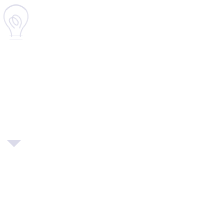
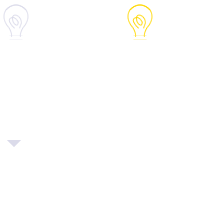
web
微信支付弹窗    随游页面导航

Changed region(s): [[0.63, 0.0, 0.78, 0.21]]

diff --git a/css/cs.css b/css/cs.css
@@ -317,7 +317,9 @@ transition:all 0.4s ease-in-out;
 .xit-sz ol{ width:240px; line-height:30px; height:30px; border-bottom:1px solid #999;}
 .xit-sz ol li{ float:left; height:30px; text-align:center;}
 .xit-sz ol li.sx{ background:url(../images/ico3.png) no-repeat 6px 6px; padding-left:5px; width:114px; border-right:1px solid #999; }
+.xit-sz ol li.sx.active{ background-position:-249px 6px; color:#ffeb81 }
 .xit-sz ol li.xtxx{background:url(../images/ico3.png) no-repeat 4px -34px; padding-left:5px; width:115px;}
+.xit-sz ol li.xtxx.active{ background-position:-256px -34px;}
 .xit-sz ul{width:240px; height:auto; }
 .xit-sz ul li{ height:30px; line-height:30px; margin:5px 0px;}
 .xit-sz ul li:hover{color:#ffeb81;}
@@ -329,11 +331,16 @@ transition:all 0.4s ease-in-out;
 .my-suiuu ul{width:118px; height:140px;}
 .my-suiuu ul li{ width:88px; height:30px; line-height:30px; margin-top:4px; padding-left:30px;}
 .my-suiuu ul li.bg1{ background:url(../images/ico3.png) no-repeat 8px -72px;}
-.my-suiuu ul li.bg2{ background:url(../images/ico3.png) no-repeat 12px -108px;}
-.my-suiuu ul li.bg3{ background:url(../images/ico3.png) no-repeat 12px -142px;}
-.my-suiuu ul li.bg4{ background:url(../images/ico3.png) no-repeat 12px -182px;}
+.my-suiuu ul li.bg1:hover,.my-suiuu ul li.bg1.active{ background-position:-249px -72px;}
+.my-suiuu ul li.bg2{ background:url(../images/ico3.png) no-repeat 8px -108px;}
+.my-suiuu ul li.bg2:hover,.my-suiuu ul li.bg2.active{ background-position:-256px -108px;}
+.my-suiuu ul li.bg3{ background:url(../images/ico3.png) no-repeat 8px -146px;}
+.my-suiuu ul li.bg3:hover,.my-suiuu ul li.bg3.active{ background-position:-255px -147px;}
+.my-suiuu ul li.bg4{ background:url(../images/ico3.png) no-repeat 8px -182px;}
+.my-suiuu ul li.bg4:hover,.my-suiuu ul li.bg4.active{ background-position:-256px -182px;}
 .my-suiuu ul li a{width:88px; height:30px; display:block;}
 .my-suiuu ul li a:hover{ color:#ffeb81;}
+.my-suiuu ul li.active a{ color:#ffeb81;}
 /*------------header--end-------------*/
 
 /*------------加入随友申请-------------*/
@@ -363,7 +370,6 @@ transition:all 0.4s ease-in-out;
 .accountSet p span{ display:block;}
 .accountSet .p1{ height:36px; }
 .accountSet p .change{ font-size:18px; color:#858585; }
-
 .accountSet p .code{ width:140px; height:36px; line-height:36px; margin:0; float:left;}
 .accountSet p .code-pic{ width:140px; height:36px; float:left; }
 .accountSet p .change{height:36px; line-height:36px;  float:right;}
@@ -437,6 +443,18 @@ transition:all 0.4s ease-in-out;
 #checkOut .finish .weixin{ background-position:0 -252px;;}
 #checkOut .finish .sina{ background-position:0 -85px;;}
 #checkOut .finish .btn{ height:36px; line-height:36px; width:95px; display:block; background:#97CBFF; color:#FFEB80; font-size:16px; position:absolute; right:0; bottom:0; text-align:center;}
+
+
+.wzhifu{ display:none; width:880px; height:520px; padding:20px; background:#fff;  position:fixed; z-index:999; top:100px; left:50%; margin-left:-460px; border:1px solid #ddd;}
+.wzhifu h2{ font-size:20px; }
+.wzhifu .left{ margin-left:120px; margin-top:20px; float:left;}
+.wzhifu .left .weiP{ width:300px; height:300px; display:block; border:1px solid #ddd;}
+.wzhifu .left .weiP img{ width:300px; height:300px; display:block;}
+.wzhifu .left .tip{ width:180px; height:44px; background:#FF7674 url(../images/icon-red.fw.png) no-repeat 60px center; padding:8px 0 8px 120px; margin-top:20px;}
+.wzhifu .left .tip span{  color:#fff; font-size:16px; font-weight:bold;}
+.wzhifu .right{ float:left; margin-left:50px; _display:inline;}
+.wzhifu .back{ color:#1EABF0; font-size:16px; margin-top:40px; display:block;}
+
 /*------------结算--end-------------*/
 
 

diff --git a/suiyou.html b/suiyou.html
@@ -49,7 +49,7 @@
                     <div class="xit-sz">
                     	<span class="jiao"></span>
                         <ol>
-                            <li class="sx">私信</li>
+                            <li class="sx active">私信</li>
                             <li class="xtxx">系统消息</li>
                         </ol>
                         <ul>
@@ -68,7 +68,7 @@
                     <div class="my-suiuu">
                     	<span class="jiao"></span>
                         <ul>
-                            <li class="bg1"><a href="javascript:;">我的随游</a></li>
+                            <li class="bg1 active"><a href="javascript:;">我的随游</a></li>
                             <li class="bg2"><a href="javascript:;">我的订单</a></li>
                             <li class="bg3"><a href="zhanghao_shezhi.html">账号设置</a></li>
                             <li class="bg4"><a href="javascript:;">注销账号</a></li>

diff --git a/jiesuan_yemian.html b/jiesuan_yemian.html
@@ -164,5 +164,25 @@
 
 </div>
 <!-----footer--end---->
+<div class="mask"></div>
+<div class="wzhifu screens">
+	<h2>微支付</h2>
+    <div class="con clearfix">
+        <div class="left">
+            <p class="weiP"><img src="images/weixinCoda.png"></p>
+            
+            <p class="tip">
+                <span>请使用微信扫一扫</span><br>
+                <span>扫描二维码支付</span>
+            </p>
+        
+         </div>
+        <div class="right"><img src="images/phone.jpg" width="329" height="421"></div>
+    </div> 
+   <a href="#" class="back"> &nbsp;< &nbsp;选择其他支付方式 </a>
+    
+
+
+</div>
 </body>
 </html>

diff --git a/js/common.js b/js/common.js
@@ -158,13 +158,13 @@ $(function(){
 
 /*-----header弹框效果-----*/
 $(function(){
-	$('.header-right .xitong').click(function(e) {
-        $(this).children('.xit-sz').toggle();
+	$('.header-right .xitong>a').click(function(e) {
+        $('.xit-sz').toggle();
         $('.header-right .name').children('.my-suiuu').css('display','none');
     });
 
-	$('.header-right .name').click(function(e) {
-        $(this).children('.my-suiuu').toggle();
+	$('.header-right .name>a').click(function(e) {
+        $('.my-suiuu').toggle();
         $('.header-right .xitong').children('.xit-sz').css('display','none');
     });
 
